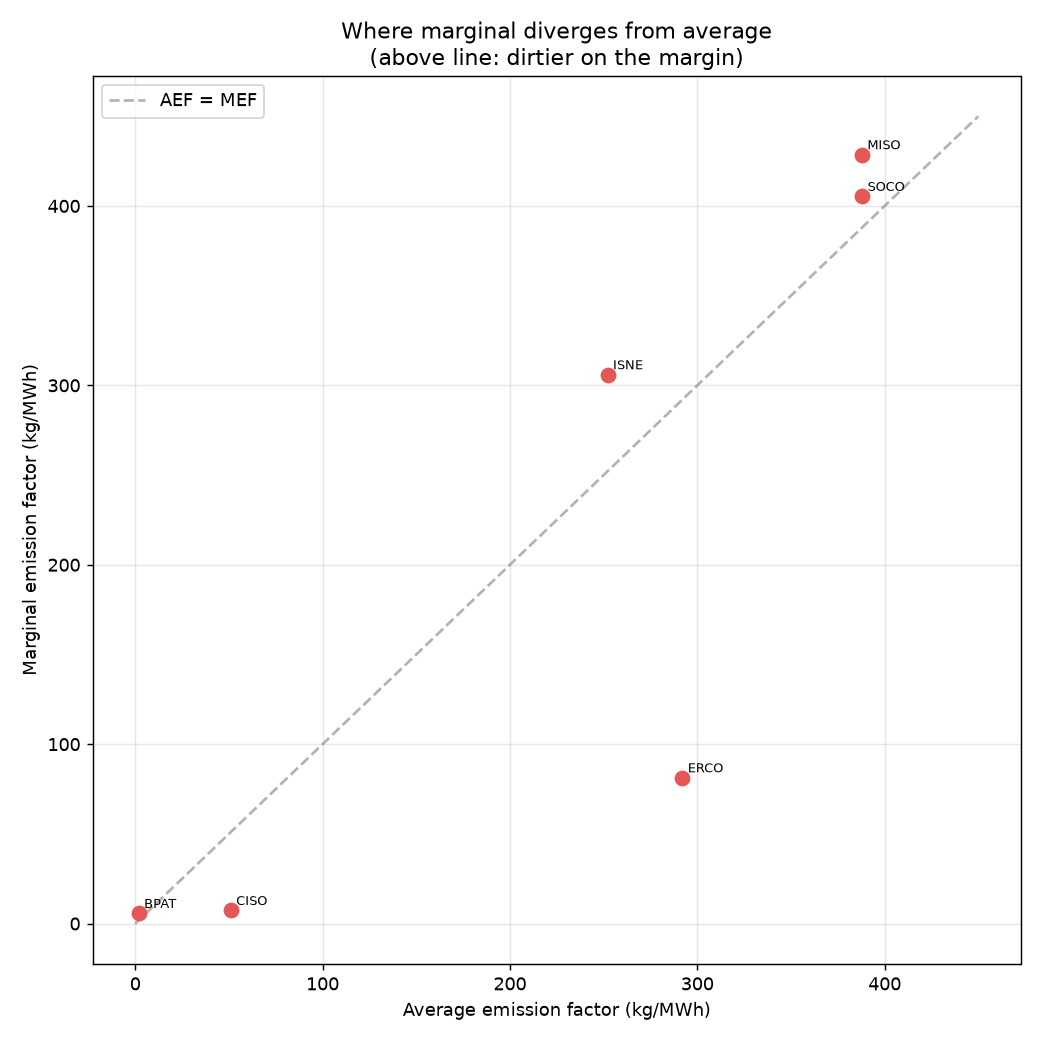
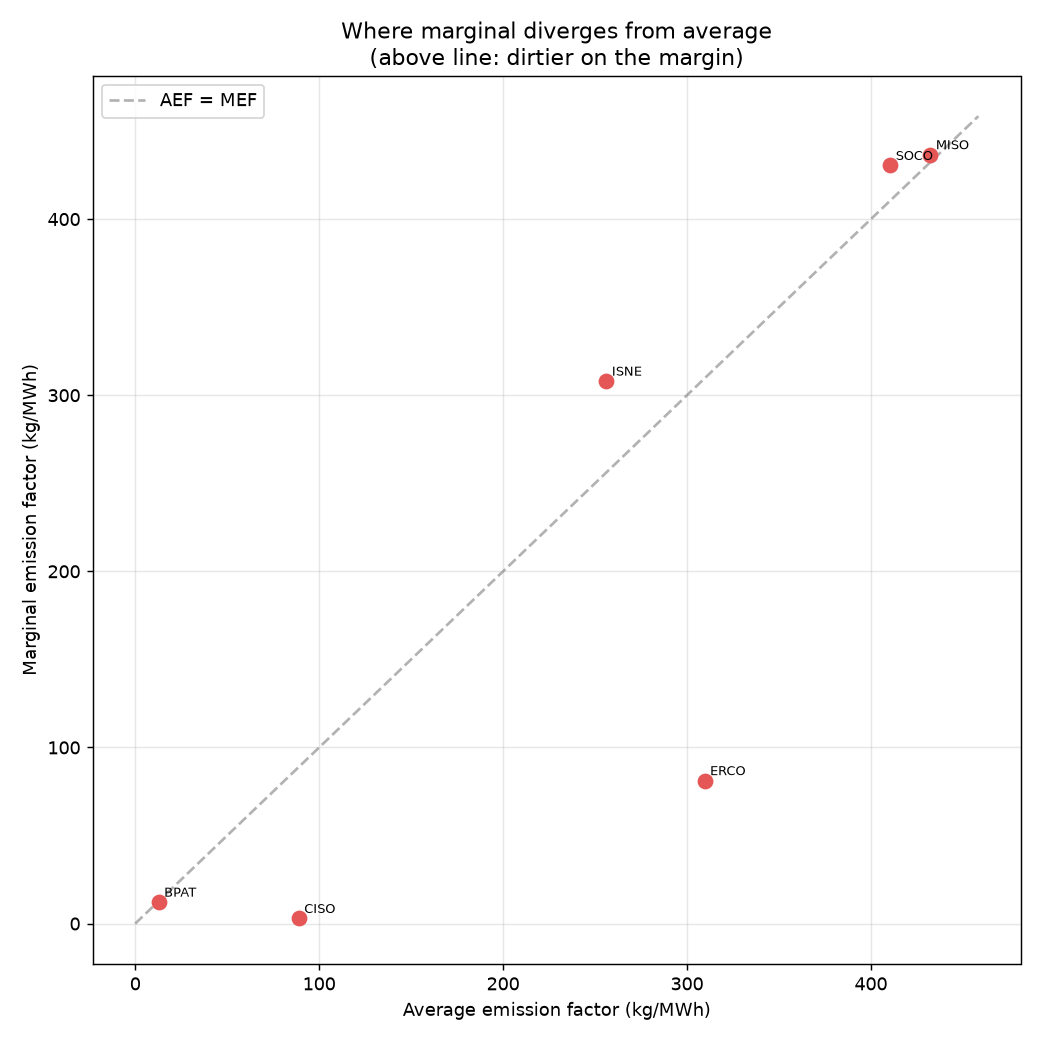
chore: EIA refresh 2026-08-03

diff --git a/docs/report.md b/docs/report.md
@@ -1,17 +1,17 @@
 # gridpulse report
 
-> **SYNTHETIC DATA** — validation fixture, not real EIA data.
-
-Balancing authorities analyzed: **4**
+Balancing authorities analyzed: **6**
 
 ## Siting ranking (by marginal emission factor)
 
 | Rank | BA | MEF (kg/MWh) | AEF (kg/MWh) | rank shift (avg→marg) |
 |---:|---|---:|---:|---:|
-| 1 | GASX | 469 | 373 | +2 |
-| 1 | HYDROX | 469 | 94 | +0 |
-| 1 | NUKEX | 469 | 126 | +1 |
-| 4 | COALX | 1000 | 943 | +0 |
+| 1 | CISO | 3 | 89 | +1 |
+| 2 | BPAT | 12 | 13 | -1 |
+| 3 | ERCO | 81 | 310 | +1 |
+| 4 | ISNE | 308 | 256 | -1 |
+| 5 | SOCO | 430 | 411 | +0 |
+| 6 | MISO | 437 | 432 | +0 |
 
 ## Rank inversions (average-based analysis gets these wrong)
 
